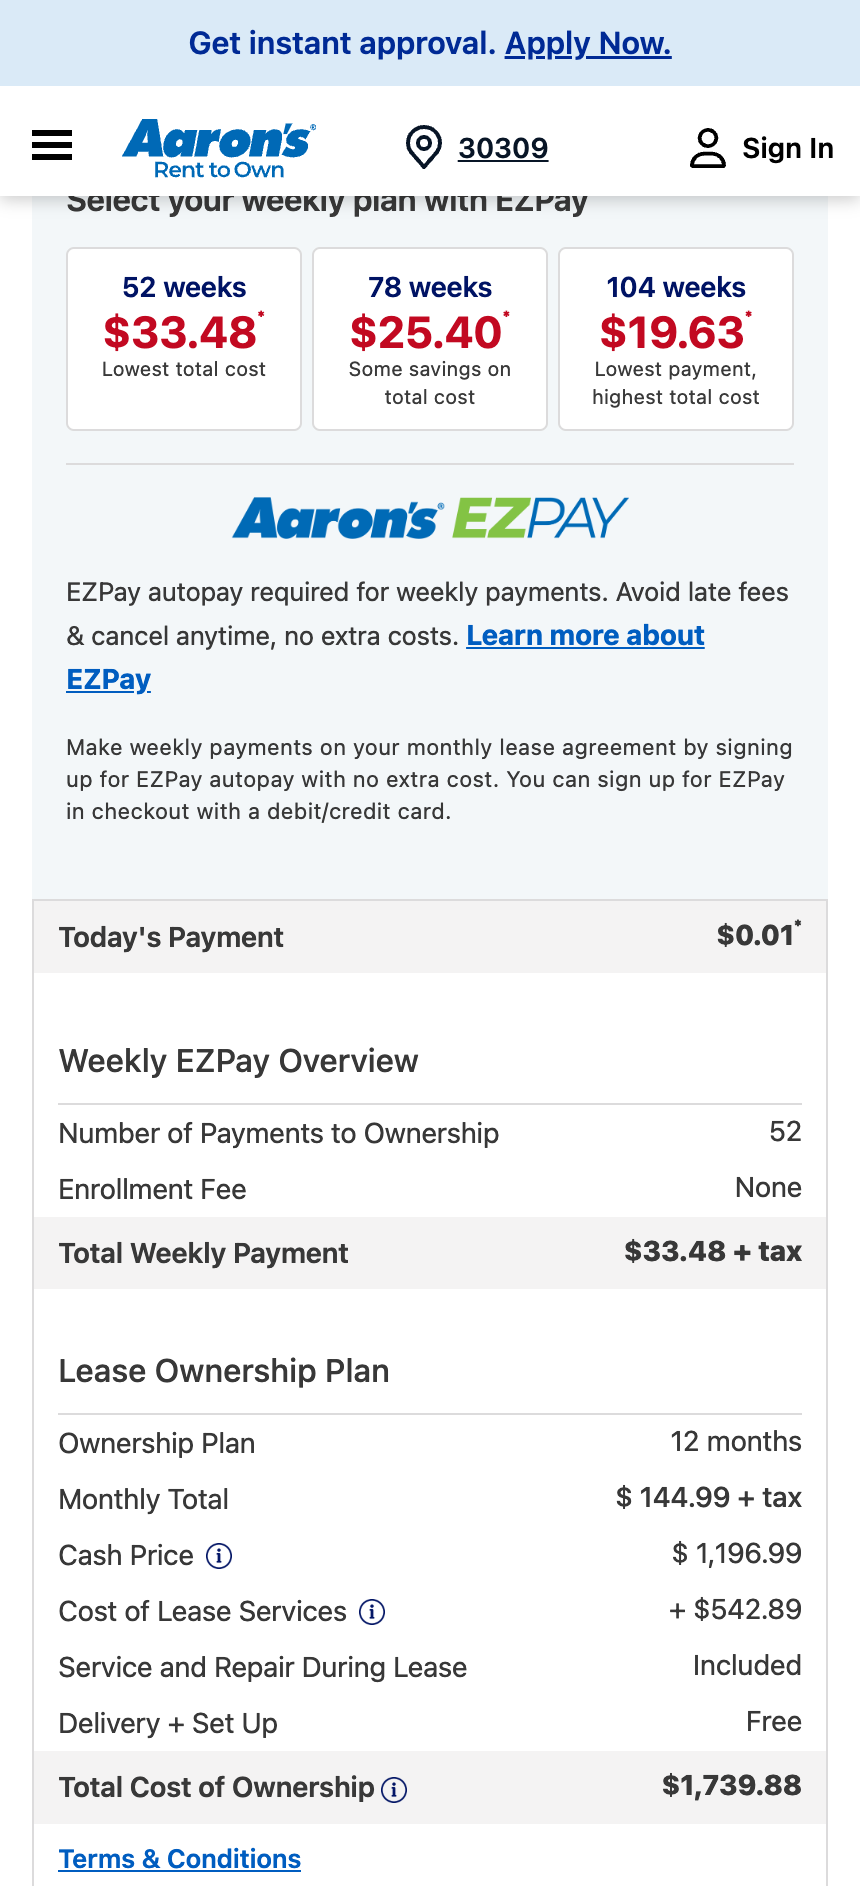
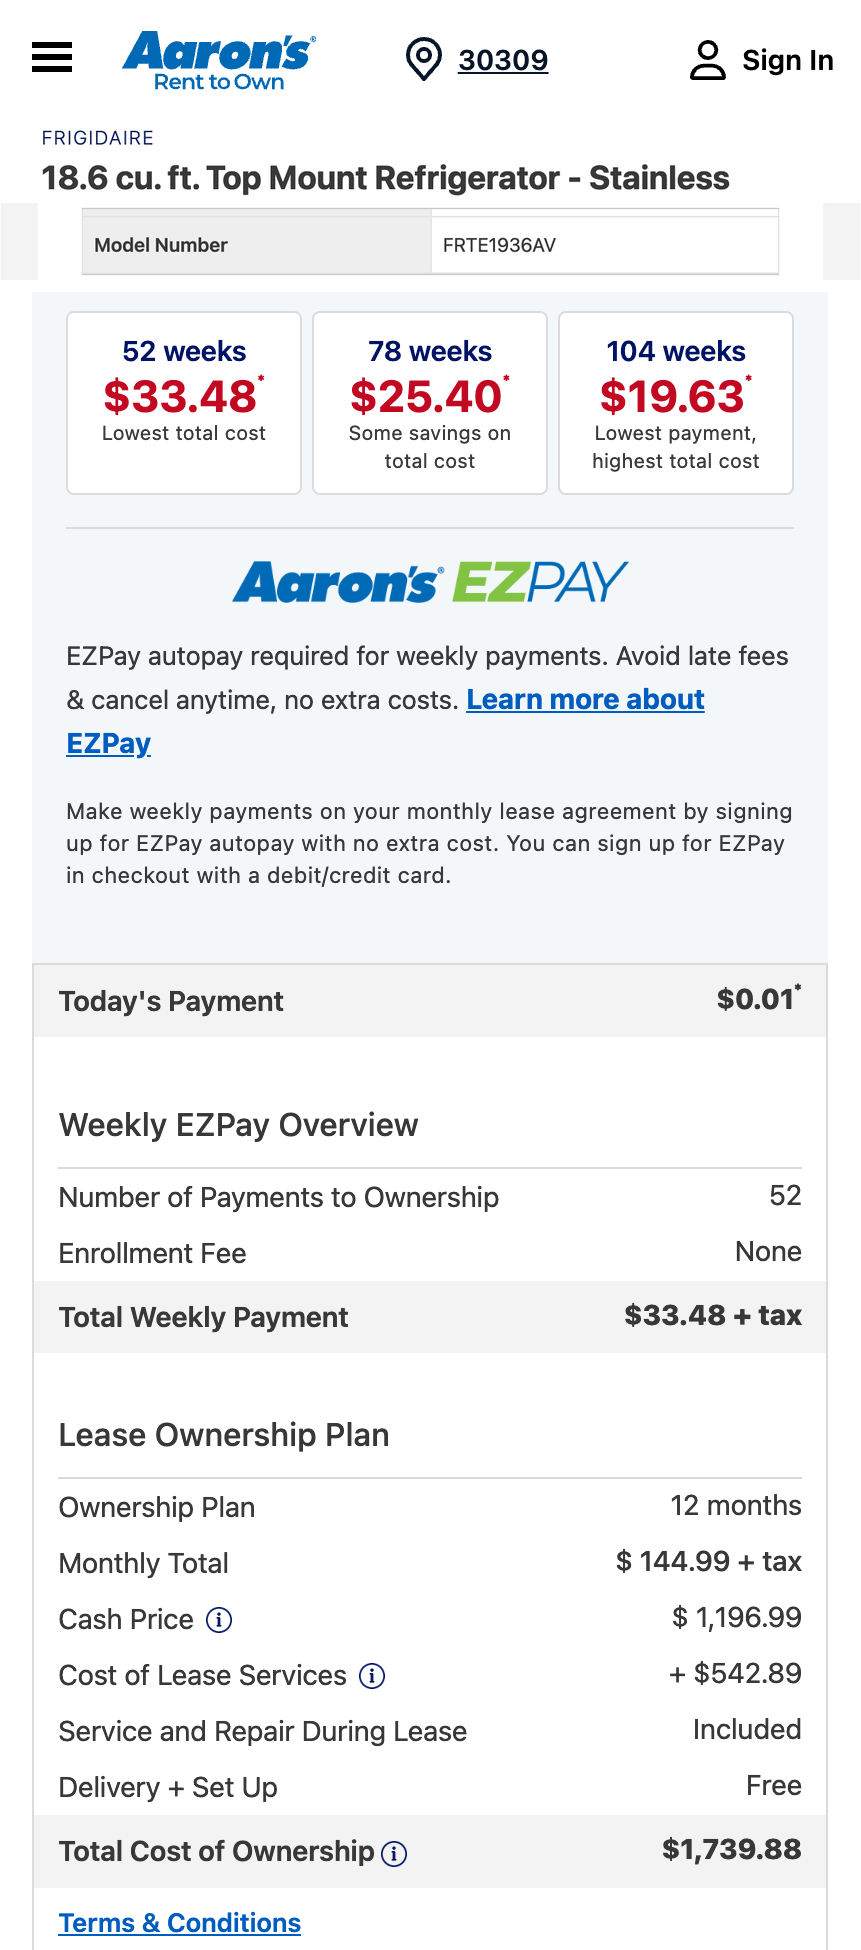
task 3.13.1: typed cards equal printed plus corrections, lease card shows brand and model
cards.json records each card's printed fields and the corrections a person
makes (Electrolux Home Products Inc. -> Frigidaire, excellent -> used_as_is);
the test rebuilds typed from them. The label keeps FFHT1822U*, which the
wildcard lookup resolves. The Aaron's card drops the Apply Now banner and
adds the FRIGIDAIRE title and model number FRTE1936AV.

diff --git a/api/tests/test_demo_cards.py b/api/tests/test_demo_cards.py
@@ -2,6 +2,7 @@
 
 import json
 from pathlib import Path as FilePath
+from typing import Any
 
 import pytest
 
@@ -13,19 +14,63 @@ CARDS = json.loads((CARDS_DIR / "cards.json").read_text())["cards"]
 FRIDGE_CARDS = [c for c in CARDS if c["kind"] in ("label", "listing")]
 LEASE_CARDS = [c for c in CARDS if c["kind"] == "lease"]
 
+# The condition a scan of each kind gives the item when the card prints none.
+SCAN_CONDITION = {"label": "used_as_is", "lease": "new"}
+LABEL_ATTRIBUTES = ("product_class", "volume_cuft", "label_kwh_per_year")
+LEASE_FIELDS = (
+    "weekly_payment",
+    "term_weeks",
+    "cash_price",
+    "fees",
+    "early_purchase_rule",
+    "early_purchase_text",
+    "missed_payment_rule",
+)
+
 
 @pytest.fixture(scope="module")
 def repo() -> Repository:
     return Repository.load()
 
 
-def _landed(task: str, repo: Repository) -> bool:
-    """Whether the repository feature a card depends on is on main yet."""
-    if task == "2.2.1":
-        return repo.model_energy("GE", "GTE18FSL****") is not None
-    if task == "2.2.2":
-        return hasattr(repo, "model_year")
-    raise AssertionError(f"unknown dependency {task}")
+def _corrected(card: dict) -> dict[str, Any]:
+    fields = dict(card["printed"])
+    for fix in card["corrections"]:
+        assert fields[fix["field"]] == fix["printed"], f"correction to {fix['field']} does not match the card"
+        assert fix["why"]
+        fields[fix["field"]] = fix["typed"]
+    return fields
+
+
+def _expected_typed(card: dict) -> dict[str, Any]:
+    """What a person types from the card: the printed fields plus the recorded corrections, nothing else."""
+    kind, fields = card["kind"], _corrected(card)
+    item_id = card["typed"]["item"]["id"]
+    item: dict[str, Any] = {
+        "id": item_id,
+        "category": "refrigerator",
+        "brand": fields["brand"],
+        "model": fields["model"],
+        "condition": fields.get("condition", SCAN_CONDITION.get(kind)),
+    }
+    if "mfg_year" in fields:
+        item["mfg_year"] = fields["mfg_year"]
+    if kind == "label":
+        item["attributes"] = {k: fields[k] for k in LABEL_ATTRIBUTES if k in fields}
+    out: dict[str, Any] = {"item": Item.model_validate(item)}
+    if kind == "listing":
+        out["offer"] = Offer.model_validate(
+            {"item_id": item_id, "price": fields["price"], "seller_type": "private",
+             "source": "user_listing", "source_id": "user_listing"}
+        )
+    if kind == "lease":
+        out["offer"] = Offer.model_validate(
+            {"item_id": item_id, "price": fields["cash_price"], "seller_type": "rent_to_own",
+             "source": "user_listing", "source_id": "user_listing"}
+        )
+        lease = {k: fields[k] for k in LEASE_FIELDS if k in fields}
+        out["lease"] = Lease.model_validate({**lease, "source_id": "user_lease"})
+    return out
 
 
 def test_every_scenario_has_a_card() -> None:
@@ -47,11 +92,20 @@ def test_card_file_exists_and_typed_equivalent_validates(card: dict) -> None:
         Lease.model_validate(typed["lease"])
 
 
+@pytest.mark.parametrize("card", CARDS, ids=lambda c: c["file"])
+def test_typed_equals_printed_plus_recorded_corrections(card: dict) -> None:
+    expected = _expected_typed(card)
+    typed = card["typed"]
+    assert set(typed) == set(expected)
+    assert Item.model_validate(typed["item"]) == expected["item"]
+    if "offer" in expected:
+        assert Offer.model_validate(typed["offer"]) == expected["offer"]
+    if "lease" in expected:
+        assert Lease.model_validate(typed["lease"]) == expected["lease"]
+
+
 @pytest.mark.parametrize("card", FRIDGE_CARDS, ids=lambda c: c["file"])
 def test_fridge_card_model_returns_a_rated_figure(card: dict, repo: Repository) -> None:
-    needs = card.get("needs")
-    if needs and not _landed(needs, repo):
-        pytest.skip(f"needs task {needs} on main")
     item = card["typed"]["item"]
     energy = repo.model_energy(item["brand"], item["model"])
     assert energy is not None, f"{item['brand']} {item['model']} has no rated figure"

diff --git a/demo/cards/README.md b/demo/cards/README.md
@@ -1,6 +1,16 @@
 # Demo cards
 
-Printable scan cards for the RealityReceipt demo. Retrieved **2026-09-26**. Every card is a real label, lease page or listing; nothing here was invented. Each pipeline card's typed equivalent (what a person would type from it) is in `cards.json`, and `api/tests/test_demo_cards.py` checks that each fridge card's model returns a rated kWh figure and that the lease card has a term and a cash price.
+Printable scan cards for the RealityReceipt demo. Retrieved **2026-09-26**. Every card is a real label, lease page or listing; nothing here was invented.
+
+For each pipeline card, `cards.json` records:
+- `printed`: the fields exactly as the card shows them, which is what a Grok scan returns.
+- `corrections`: each change a person makes before the pipeline can use a field, with the printed value, the typed value and why.
+- `typed`: the item, offer and lease a person would type.
+
+`api/tests/test_demo_cards.py` checks that:
+- `typed` equals `printed` plus `corrections` and nothing else;
+- each fridge card's model returns a rated kWh figure, equal to the label's kWh where one is printed;
+- the lease card's term, weekly payment and cash price match the page.
 
 ## Pipeline cards
 
@@ -8,25 +18,26 @@ Printable scan cards for the RealityReceipt demo. Retrieved **2026-09-26**. Ever
 
 - **Source URL:** https://pdf.lowes.com/energyguides/719881153483.pdf
 - **What it shows:** Older-format yellow U.S. EnergyGuide for Maytag refrigerator-freezer model family `MB*2562***` (bottom-mounted freezer, automatic defrost, no through-the-door ice), capacity **25.1 cu ft**, **505 kWh/year**, similar-model range **465–594 kWh/year**, estimated yearly operating cost **$46** at the **2005** national average of 9.06¢/kWh, ENERGY STAR mark.
-- **Pipeline:** the model family is not in the ENERGY STAR data; it resolves through DOE's historical ratings once task 2.2.2 lands. Until then its test is skipped.
+- **Pipeline:** typed as printed. The model family is not in the ENERGY STAR data; it resolves to **505 kWh** through DOE's historical ratings (`doe_wap_refrigerators`), the figure the label prints.
 
 ### `label-current-frigidaire-ffht1822u.png` — current EnergyGuide
 
 - **Source URL:** https://frigidaire.bynder.com/asset/a5b8e92f-bf19-40e6-a70d-1ac4e1845e0e/FFHT1822U_EG-pdf.pdf, linked as "Energy Guide" from Frigidaire's product support page for **FFHT1822UW**: https://www.frigidaire.ca/Owner-Centre/Product-Support/FFHT1822UW (rendered from the PDF at 1563×2200).
 - **What it shows:** Current U.S. EnergyGuide, Electrolux Home Products Inc., model `FFHT1822U*`, refrigerator-freezer with automatic defrost, top-mounted freezer, no through-the-door ice, capacity **17.6 cu ft**, **360 kWh** estimated yearly electricity use, estimated yearly energy cost **$50** (similar models $49–$70, all models $38–$90) at 14¢/kWh, ENERGY STAR mark.
-- **Pipeline:** typed as `FFHT1822UW`, the model the label belongs to, which is an exact row in `energystar_refrigerators.csv` at **360 kWh**, the same figure the label prints. The label itself prints the family `FFHT1822U*`, which matches once task 2.2.1's wildcard lookup lands.
+- **Pipeline:** the model is typed as printed, `FFHT1822U*`, and the wildcard lookup finds the family in `energystar_refrigerators.csv` at **360 kWh**, the figure the label prints. One recorded correction: the label prints the maker, **Electrolux Home Products Inc.**, and nothing is found under that name. The brand is typed as **Frigidaire**: the label is linked from Frigidaire's FFHT1822UW support page, and ENERGY STAR lists the model under Frigidaire.
 
 ### `lease-aarons-frigidaire-frte1936av.png` — rent-to-own page
 
-- **Source URL:** https://www.aarons.com/appliances/refrigerators/18.6-cu.-ft.-top-mount-refrigerator---stainless-7405BB0.html (ZIP **30309**, 52-week plan selected; two screenshots of the same panel stacked).
-- **What it shows:** Frigidaire 18.6 cu ft top-mount refrigerator, model **FRTE1936AV** (on the same page; ENERGY STAR data: 374 kWh/year). Weekly EZPay plans **$33.48 × 52 weeks**, **$25.40 × 78 weeks**, **$19.63 × 104 weeks**; today's payment **$0.01**; 52 payments to ownership; enrollment fee **none**; ownership plan 12 months, monthly total **$144.99**; **cash price $1,196.99**; cost of lease services **$542.89**; **total cost of ownership $1,739.88**.
+- **Source URL:** https://www.aarons.com/appliances/refrigerators/18.6-cu.-ft.-top-mount-refrigerator---stainless-7405BB0.html (ZIP **30309**, 52-week plan selected). Stacked from screenshots of the same page, top to bottom: the Aaron's header (the "Get instant approval" banner above it is cropped off), the brand and title, the "Model Number" row from Specifications, and the payment panel.
+- **What it shows:** brand **FRIGIDAIRE**, "18.6 cu. ft. Top Mount Refrigerator - Stainless", model number **FRTE1936AV** (ENERGY STAR data: 374 kWh/year). Weekly EZPay plans **$33.48 × 52 weeks**, **$25.40 × 78 weeks**, **$19.63 × 104 weeks**; today's payment **$0.01**; 52 payments to ownership; enrollment fee **none**; ownership plan 12 months, monthly total **$144.99**; **cash price $1,196.99**; cost of lease services **$542.89**; **total cost of ownership $1,739.88**.
 - **Early purchase terms:** printed in the same page's Leasing FAQs, not in the captured panel: "if you payout your merchandise within the applicable same as cash period, you will pay the cash price, plus tax and applicable fees (if any). The same as cash period varies by location but is generally 120 days. … after the same as cash option expires, you can purchase the merchandise for more than the cash price but less than the total of remaining lease payments, as described in your lease agreement. This early purchase option amount varies by state and is explained in the lease agreement." That is not a fixed rule, so the typed lease uses `early_purchase_rule: "none"`.
+- **Pipeline:** typed as printed. The fees are the "Enrollment Fee: None" line, so 0. The cost of lease services is not a fee; it is the difference between the payments and the cash price. `also_printed` in `cards.json` keeps the other printed figures (today's payment, monthly total, total cost of ownership) for the lease fields task 1.7 adds.
 
 ### `listing-used-ge-gie18gsnrss.png` — used listing
 
 - **Source URL:** https://www.craigslist.org/view/s2qTKDEZGPr9oHGTneorn9 (Craigslist Atlanta, post id **7969927890**, by owner).
 - **What it shows:** GE stainless steel top-freezer refrigerator, **$175**, condition **excellent**, model **GIE18GSNRSS**. No year is stated. Photos and map hidden before capture; no seller name appeared on the posting.
-- **Pipeline:** the ENERGY STAR data lists this model as the family `GIE18GSN****` (443 kWh/year), which matches once task 2.2.1 lands. Until then its test is skipped.
+- **Pipeline:** the ENERGY STAR data lists this model as the family `GIE18GSN****`, and the wildcard lookup finds it at **443 kWh/year**. One recorded correction: condition "excellent" is typed as `used_as_is`, because the contract's conditions are new, refurbished and used_as_is.
 
 ## Other cards
 
